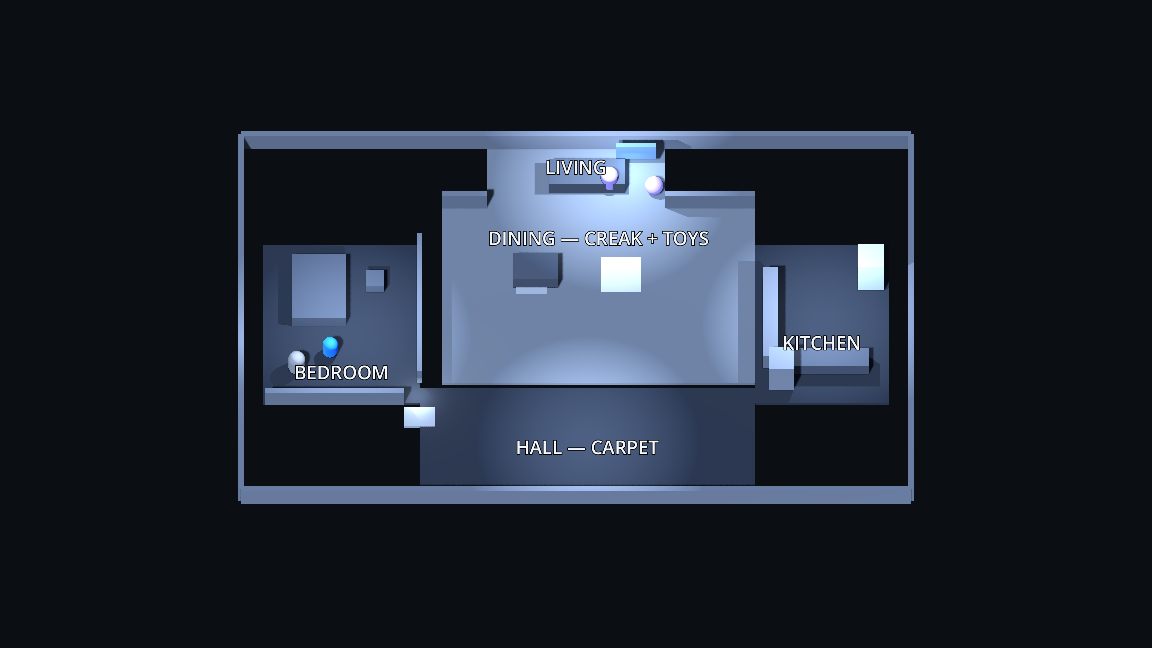
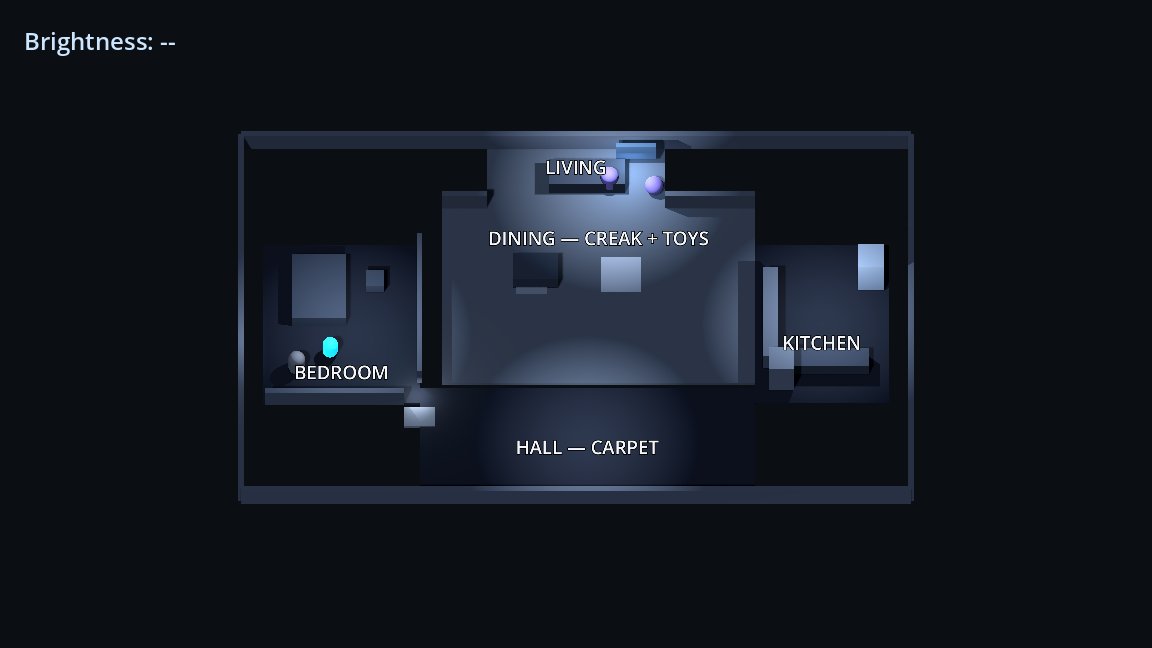
Apply A0.1 review fixes

Changed region(s): [[0.1875, 0.1852, 0.8125, 0.8025], [0.0, 0.0309, 0.125, 0.0926]]

diff --git a/gamejam/WIRING.md b/gamejam/WIRING.md
@@ -8,8 +8,9 @@ Format: `- [ ] (who asked) what is needed, which scene, why`
 
 ## Open
 
-- [ ] (lane B) Attach `res://scripts/Player.gd` to the `Player` `CharacterBody3D` in `Main.tscn`; add a `MeshInstance3D` child named `Capsule` and a floor collision shape. Put each floor collider in exactly one `surface_carpet`, `surface_hardwood`, `surface_creaky`, or `surface_toys` group so B1 can derive footstep noise.
+- [ ] (lane B) Attach `res://scripts/Door.gd` to `BedroomDoor`, `Pantry`, and `Fridge` in `Main.tscn`; configure their `door_kind` values and add an optional `DoorVisual` pivot child to animate. Add a `Snack` `Node3D` at the goal with a `MeshInstance3D` child named `Visual`, attach `res://scripts/Snack.gd`, and assign it to whichever goal doors should award the snack (`provides_snack = true`).
 
 ## Done
 
-_None yet._
+- [x] (lane B) Attached `res://scripts/Player.gd` to `Player` in `Main.tscn`.
+  The existing `Capsule`, collision shape, and tagged floor colliders satisfy B1.